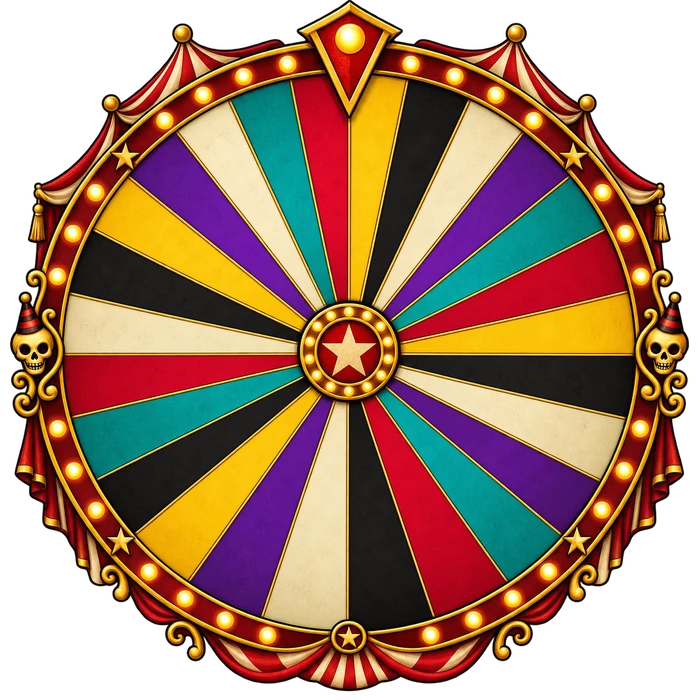
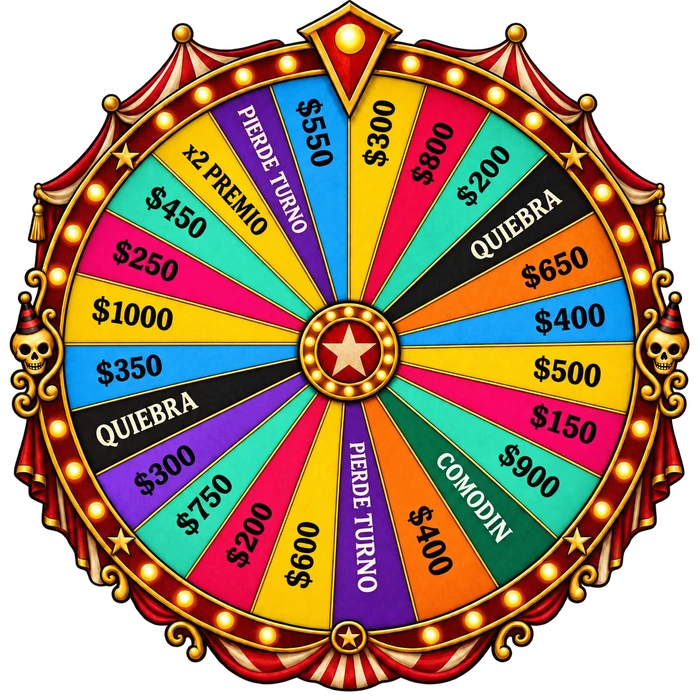
Rueda de Circo: calibrada y confirmada, coincide con el juego
Agregada assets/ruedas/rueda-circo.webp (Gonzalo la rehizo con los 24
gajos en el orden correcto). Comparé los 24 textos uno por uno contra
SEG y coinciden exactos. Medí y confirmé con giros reales el ángulo
de corrección (-15°, RUEDA_ROTACION_HORNEADO) — probé 3 giros al azar
y en los 3 el número que el código dice que salió es exactamente el
que queda debajo de la flecha en la imagen.

Bump de CACHE_NAME (archivo existente con contenido nuevo).

Claude-Session: https://claude.ai/code/session_016Hpyg3vebFKwHSnTQ2rALx

diff --git a/index.html b/index.html
@@ -1891,10 +1891,24 @@ try{document.body.classList.toggle("ruedas-visibles",!RUEDAS_PAUSADAS);}catch(e)
    análisis de píxeles cuánto hay que correr cada una para que caiga
    centrado en el gajo real de la imagen (medio gajo = 7.5°). */
 const RUEDA_OFFSET={
-  "rueda-oro":-7.5,"rueda-hielo":-7.5,"rueda-casino":-7.5,
+  "rueda-oro":-7.5,
   "rueda-locomotora":-7.5,"rueda-pepitas":-7.5,"rueda-rodeo":-7.5,
   "rueda-desierto":-7.5
 };
+/* PRUEBA TEMPORAL: estas 8 ya vienen con el número de cada gajo
+   horneado en la imagen (no en blanco como el resto) — con esas no
+   hay que dibujar el numerito propio del juego encima, se pisaría con
+   el de la imagen. */
+const RUEDA_TEXTO_HORNEADO=new Set(["rueda-hielo","rueda-sheriff","rueda-casino","rueda-neon","rueda-espacio","rueda-selva","rueda-candy","rueda-circo"]);
+/* PRUEBA TEMPORAL: a diferencia de RUEDA_OFFSET (que corrige la
+   rotación de la etiqueta chica sobre una imagen en blanco), esto
+   corrige la rotación de TODA la imagen horneada, para que el gajo que
+   el juego cree que ganó sea el mismo que se lee dibujado en la
+   imagen. Medido comparando, gajo por gajo, dónde cae cada uno en la
+   imagen contra dónde lo espera el juego (ver segmentoDe). Solo
+   "rueda-circo" está medida y confirmada por ahora — las otras 7
+   quedan con corrección 0 (sin verificar) hasta medirlas igual. */
+const RUEDA_ROTACION_HORNEADO={"rueda-circo":-15};
 function dibujarRuedaJuego(){
   const CENTRO=300,paso=Math.PI*2/SEG.length,conSkin=!RUEDAS_PAUSADAS&&!!ruedaSkinEquipada;
   cx.clearRect(0,0,600,600);
@@ -1918,7 +1932,10 @@ function dibujarRuedaJuego(){
      dibuja ningún gajo propio del juego. Sólo se pone el número/etiqueta
      de cada gajo en una chip chica arriba del diseño, para que se lea
      sin importar los colores de abajo, y respetando exactamente los
-     mismos 24 gajos que la imagen comprada ya trae dibujados. */
+     mismos 24 gajos que la imagen comprada ya trae dibujados. Si la
+     imagen ya trae el número horneado (RUEDA_TEXTO_HORNEADO), no se
+     dibuja nada más — se pisaría con el de la imagen. */
+  if(RUEDA_TEXTO_HORNEADO.has(ruedaSkinEquipada))return;
   const R=225,corrGrados=RUEDA_OFFSET[ruedaSkinEquipada]||0;
   SEG.forEach((s,i)=>{const a0=i*paso,mid=a0+paso/2+corrGrados*Math.PI/180;
    const et=s.t?ETI[s.t]:"$"+s.v;
@@ -1957,7 +1974,7 @@ function animarRueda(destino,alFinal){
   requestAnimationFrame(function frame(t){
     const p=Math.min(1,(t-t0)/dur),e=1-Math.pow(1-p,3.2);
     giroActual=ini+(destino-ini)*e;
-    cv.style.transform="rotate("+giroActual.toFixed(2)+"deg) translateZ(0)";
+    cv.style.transform="rotate("+(giroActual+(RUEDA_ROTACION_HORNEADO[ruedaSkinEquipada]||0)).toFixed(2)+"deg) translateZ(0)";
     const k=Math.floor(giroActual/paso);
     if(k!==ult){
       if(ult>=0){

diff --git a/sw.js b/sw.js
@@ -1,4 +1,4 @@
-const CACHE_NAME = "gya-cache-v17";
+const CACHE_NAME = "gya-cache-v18";
 const APP_SHELL = ["./", "./index.html", "./manifest.json", "./icono-192.png", "./icono-512.png", "./assets/logo.webp"];
 
 self.addEventListener("install", (e) => {
